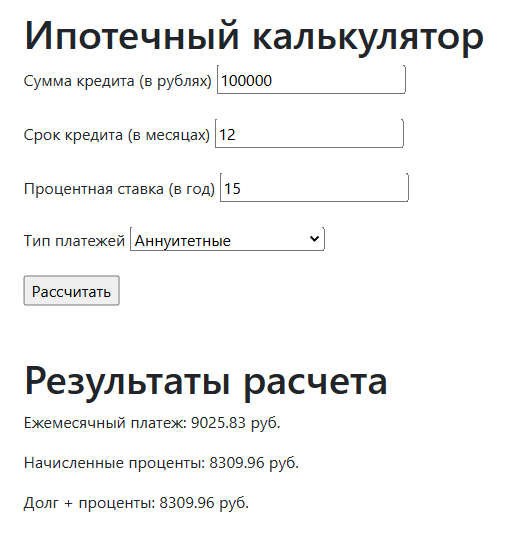
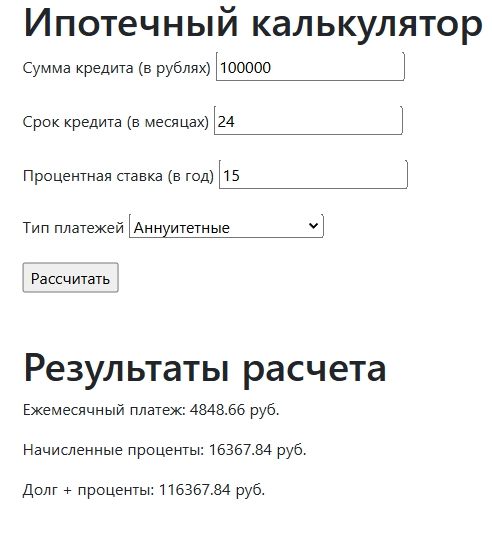
Небольшие фиксы, рефакторинг + тесты

diff --git a/templates/result.html b/templates/result.html
@@ -20,7 +20,7 @@
         <h1>Результаты расчета</h1>
         <p>Ежемесячный платеж: {{ result.monthly_payment }} руб.</p>
         <p>Начисленные проценты: {{ result.accrued_interest }} руб.</p>
-        <p>Долг + проценты: {{ result.accrued_interest }} руб.</p>
+        <p>Долг + проценты: {{ result.sum_payments }} руб.</p>
     </div>
 </body>
 </html>

diff --git a/test_app.py b/test_app.py
@@ -1,0 +1,72 @@
+import unittest
+from app import app, calc_diff_payment, calc_annuity_payment
+
+
+class TestApp(unittest.TestCase):
+
+    def setUp(self):
+        self.app = app.test_client()
+        self.app.testing = True
+
+    def test_index_page(self):
+        response = self.app.get('/')
+        self.assertEqual(response.status_code, 200)
+
+    def test_calc_diff_payment(self):
+        loan_amount = 100000
+        loan_term = 12
+        interest_rate = 5
+        result = calc_diff_payment(loan_amount, loan_term, interest_rate)
+        a, b = map(float, result[0].split(', ..., '))
+        self.assertGreaterEqual(a, 8750.00 - 100)
+        self.assertLessEqual(a, 8750.00 + 100)
+
+        self.assertGreaterEqual(b, 8368.06 - 100)
+        self.assertLessEqual(b, 8368.06 + 100)
+
+        self.assertGreaterEqual(result[1], 2708.33 - 100)
+        self.assertLessEqual(result[1], 2708.33 + 100)
+
+        self.assertGreaterEqual(result[2], 102708.33 - 100)
+        self.assertLessEqual(result[2], 102708.33 + 100)
+
+    def test_calc_diff_payment_wrong(self):
+        loan_amount = 700000
+        loan_term = 60
+        interest_rate = 6
+        result = calc_diff_payment(loan_amount, loan_term, interest_rate)
+
+        a, b = map(float, result[0].split(', ..., '))
+
+        if a < 15167 - 500 or a > 15167 + 500 or b < 11225.00 - 500 or\
+                b > 11725.00 + 500 or result[1] < 87875 - 500 or result[1] > 87875 + 500 \
+                or result[2] < 787875 - 500 or result[2] > 787875 + 500:
+            self.assertEqual(0, 1)
+
+    def test_calc_annuity_payment(self):
+        loan_amount = 100000
+        loan_term = 12
+        interest_rate = 5
+        result = calc_annuity_payment(loan_amount, loan_term, interest_rate)
+        self.assertGreaterEqual(result[0], 8561 - 100)
+        self.assertLessEqual(result[0], 8561 + 100)
+
+        self.assertGreaterEqual(result[1], 2729 - 100)
+        self.assertLessEqual(result[1], 2729 + 100)
+
+        self.assertGreaterEqual(result[2], 102729 - 100)
+        self.assertLessEqual(result[2], 102729 + 100)
+
+    def test_calc_annuity_payment_wrong(self):
+        loan_amount = 700000
+        loan_term = 60
+        interest_rate = 6
+        result = calc_annuity_payment(loan_amount, loan_term, interest_rate)
+
+        if result[0] < 13000 or result[0] > 14000 or result[1] < 111400 or\
+                result[1] > 112500 or result[2] < 811400 or result[2] > 812500:
+            self.assertEqual(0, 1)
+
+
+if __name__ == '__main__':
+    unittest.main()

diff --git a/app.py b/app.py
@@ -4,6 +4,13 @@ from wtforms import IntegerField, FloatField, SelectField, SubmitField
 from wtforms.validators import InputRequired, NumberRange
 
 
+def calc_annuity_payment(loan_amount, loan_term, interest_rate):
+    monthly_interest_rate = interest_rate / 1200
+    monthly_payment = loan_amount * monthly_interest_rate * (1 + monthly_interest_rate) ** loan_term / (
+                (1 + monthly_interest_rate) ** loan_term - 1)
+    return round(monthly_payment, 2), round(monthly_payment * loan_term - loan_amount, 2), round(monthly_payment * loan_term, 2)
+
+
 def calc_diff_payment(loan_amount, loan_term, interest_rate):
     payments = []
 
@@ -13,9 +20,9 @@ def calc_diff_payment(loan_amount, loan_term, interest_rate):
     for i in range(loan_term):
         accrued_interest += loan_amount * interest_rate / 1200
         payments.append(tmp + loan_amount * interest_rate / 1200)
-        loan_amount -= tmp + loan_amount * interest_rate / 1200
+        loan_amount -= payments[-1]
 
-    return f"{round(payments[0], 2)}, ... {round(payments[-1], 2)}", round(accrued_interest, 2), round(sum(payments), 2)
+    return f"{round(payments[0], 2)}, ..., {round(payments[-1], 2)}", round(accrued_interest, 2), round(sum(payments), 2)
 
 
 app = Flask(__name__)
@@ -40,13 +47,9 @@ def mortgage_calculator():
         payment_type = form.payment_type.data
 
         result = dict()
-        monthly_interest_rate = interest_rate / 1200
 
         if payment_type == 'annuity':
-            result['monthly_payment'] = round(loan_amount * (monthly_interest_rate * (1 + monthly_interest_rate) ** loan_term) / (
-                        (1 + monthly_interest_rate) ** loan_term - 1), 2)
-            result['accrued_interest'] = round(result['monthly_payment'] * loan_term - loan_amount, 2)
-            result['sum_payments'] = result['monthly_payment'] * loan_term
+            result['monthly_payment'], result['accrued_interest'], result['sum_payments'] = calc_annuity_payment(loan_amount, loan_term, interest_rate)
         else:
             result['monthly_payment'], result['accrued_interest'], result['sum_payments'] = calc_diff_payment(loan_amount, loan_term, interest_rate)
 
